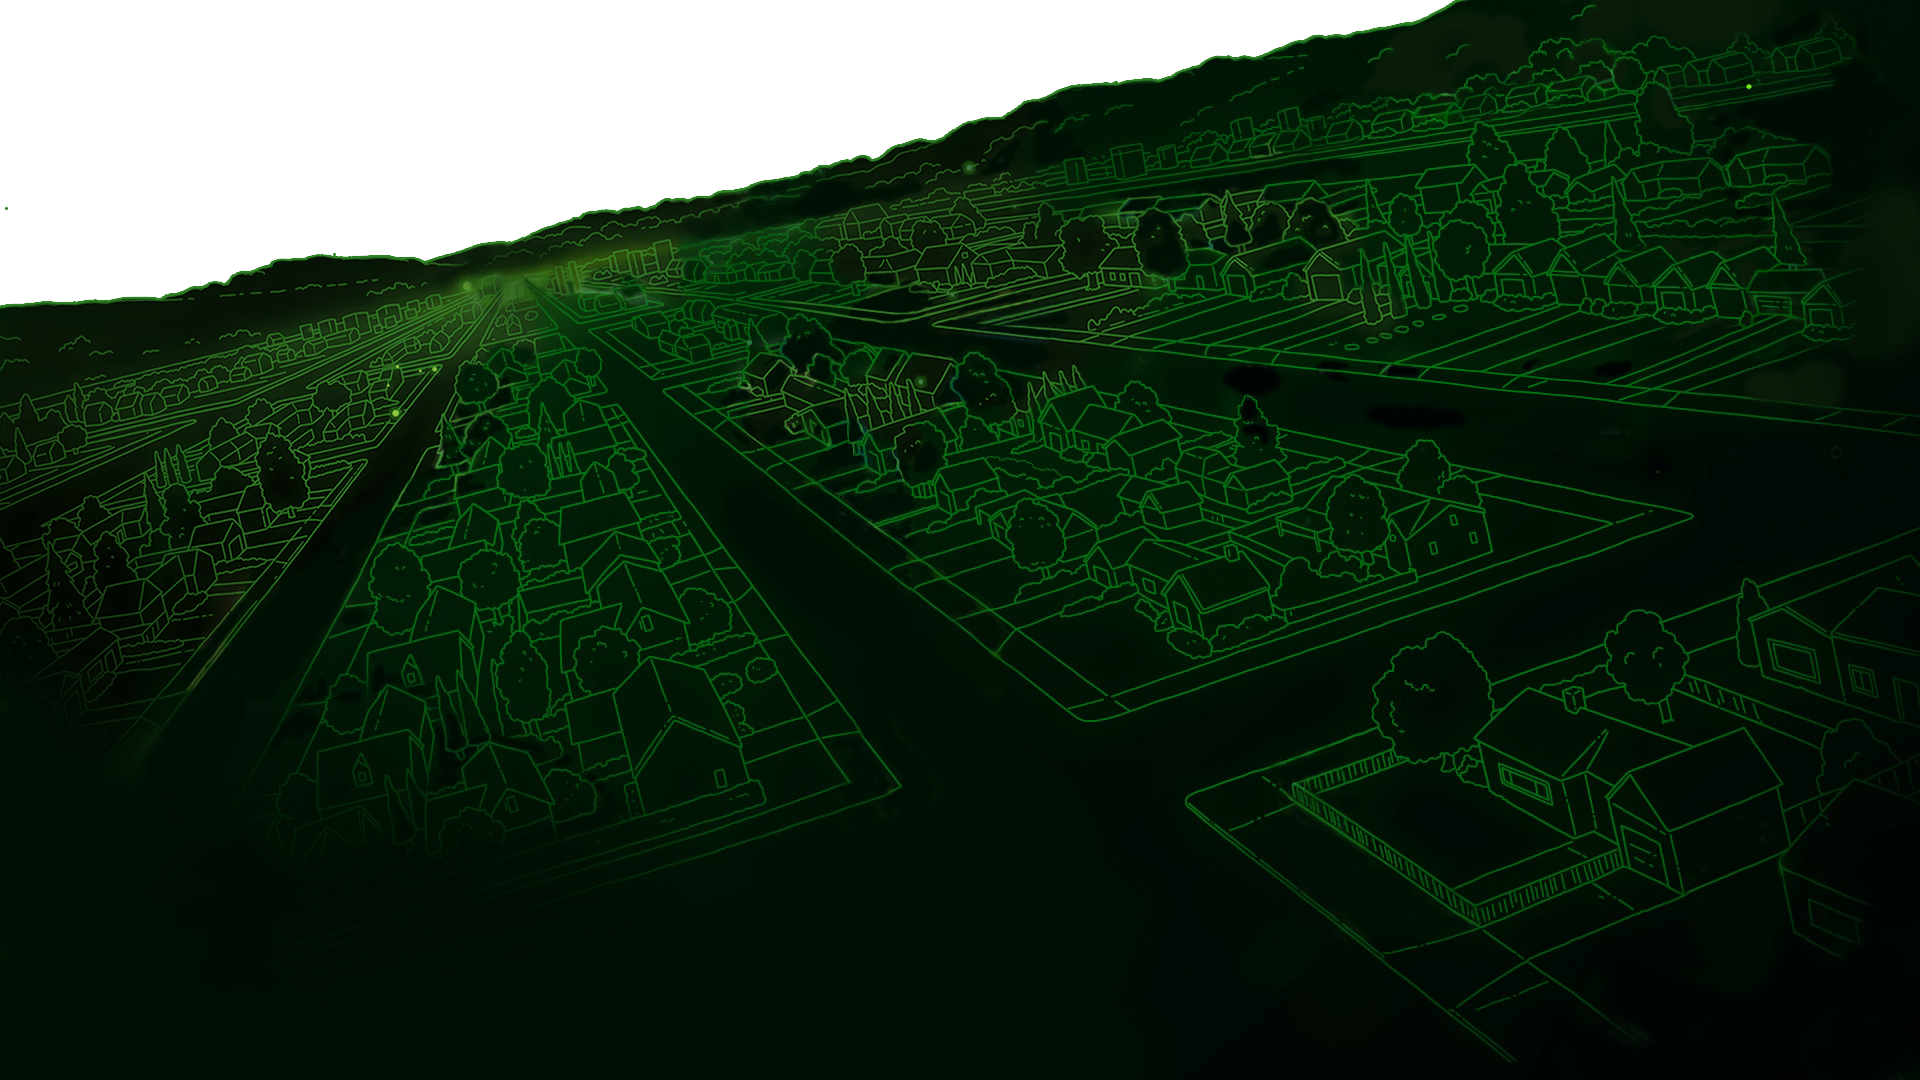
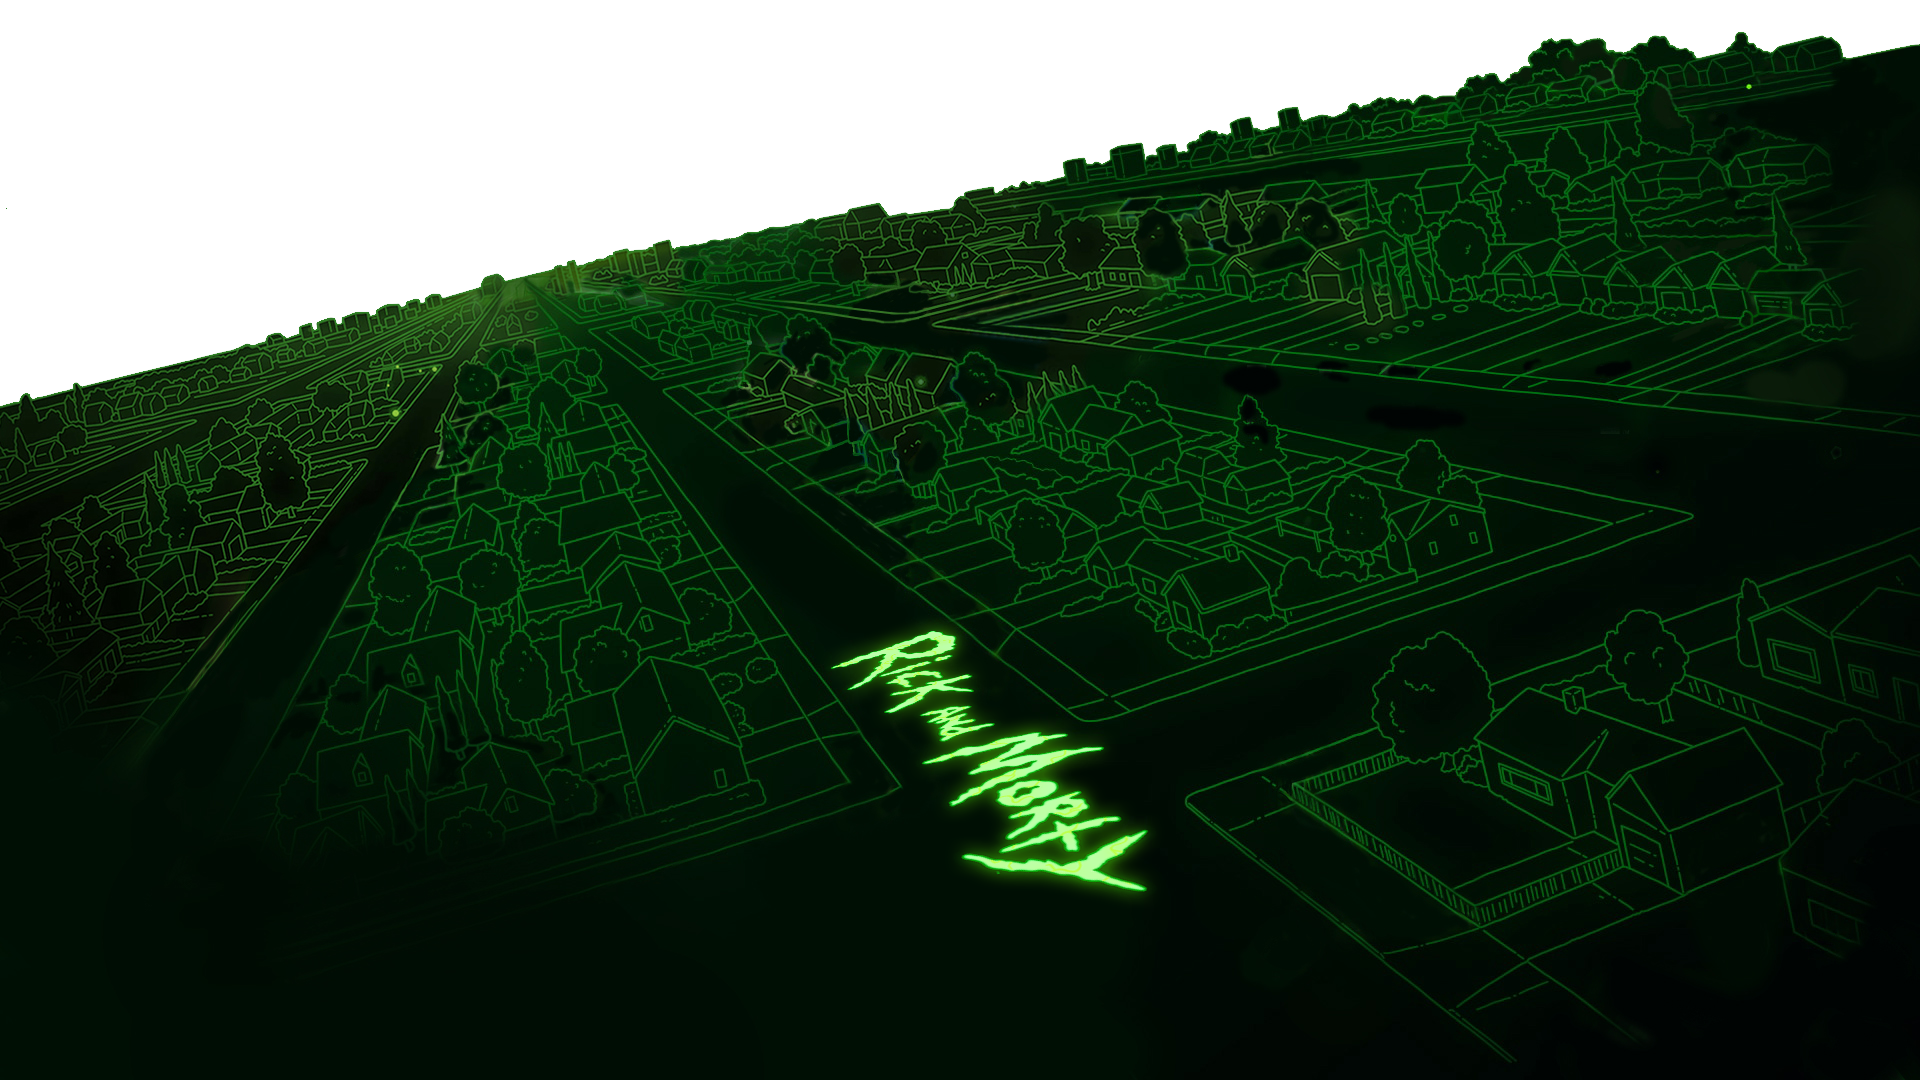
Background Desktop
Efecto parallax desktop terminado.

Changed region(s): [[0.0, 0.0, 1.0, 0.3972], [0.4375, 0.5806, 0.5938, 0.825]]

diff --git a/src/components/Background/Background.jsx b/src/components/Background/Background.jsx
@@ -17,13 +17,18 @@ function Background() {
   return (
     <div className="background">
       <img style={{transform: `translate(${cords.x / 100}px, ${cords.y / 100}px)`}} className="nubes" src="/images/Nubes.jpg" alt="Nubes" />
-      <img style={{transform: `translate(${cords.x / 160}px, ${cords.y / 160}px)`}} className="city" src="/images/City.png" alt="City" />
-      <img style={{transform: `translate(${cords.x / 150}px, ${cords.y / 150}px)`}} className="asteroids shadow" src="/images/Asteroids.png" alt="Asteroids" />
-      <img style={{transform: `translate(${cords.x / 60}px, ${cords.y / 60}px)`}} className="jerry space-shadow" src="/images/Jerry.png" alt="Jerry Flotando" />
-      <img style={{transform: `translate(${cords.x / 60}px, ${cords.y / 60}px)`}} className="rick shadow" src="/images/Rick.png" alt="Rick Flotando" />
-      <img style={{transform: `translate(${cords.x / 35}px, ${cords.y / 35}px)`}} className="morty shadow" src="/images/Morty.png" alt="Morty Flotando" />
-      <img style={{transform: `translate(${cords.x / 50}px, ${cords.y / 50}px)`}} className="beth space-shadow" src="/images/Beth.png" alt="Beth Flotando" />
-      <img style={{transform: `translate(${cords.x / -50}px, ${cords.y / -50}px)`}} className="summer space-shadow" src="/images/Summer.png" alt="Summer Flotando" />
+      <img style={{transform: `translate(${cords.x / 80}px, ${cords.y / 80}px)`}} className="city" src="/images/City.png" alt="Ciudad" />
+      <div className="asteroids">
+        <img style={{transform: `translate(${cords.x / 150}px, ${cords.y / 150}px)`}} className="left shadow" src="/images/Asteroids-left.png" alt="Asteroides de fondo" />
+        <img style={{transform: `translate(${cords.x / 60}px, ${cords.y / 60}px)`}} className="center shadow" src="/images/Asteroids-center.png" alt="Asteroides de fondo" />
+        <img style={{transform: `translate(${cords.x / 100}px, ${cords.y / 100}px)`}} className="right shadow" src="/images/Asteroids-right.png" alt="Asteroides de fondo" />
+      </div>
+      <img style={{transform: `translate(${cords.x / 35}px, ${cords.y / 35}px)`}} className="jerry space-shadow" src="/images/Jerry.png" alt="Jerry Flotando" />
+      <img style={{transform: `translate(${cords.x / 50}px, ${cords.y / 50}px)`}} className="rick shadow" src="/images/Rick.png" alt="Rick Flotando" />
+      <img style={{transform: `translate(${cords.x / 100}px, ${cords.y / 100}px)`}} className="asteroid-on shadow" src="/images/Asteroids-on.png" alt="Asteroides de fondo" />
+      <img style={{transform: `translate(${cords.x / 45}px, ${cords.y / 45}px)`}} className="beth space-shadow" src="/images/Beth.png" alt="Beth Flotando" />
+      <img style={{transform: `translate(${cords.x / 30}px, ${cords.y / 30}px)`}} className="morty shadow" src="/images/Morty.png" alt="Morty Flotando" />
+      <img style={{transform: `translate(${cords.x / -140}px, ${cords.y / -140}px)`}} className="summer space-shadow" src="/images/Summer.png" alt="Summer Flotando" />
     </div>
   )
 }

diff --git a/src/components/Background/_Background.scss b/src/components/Background/_Background.scss
@@ -12,11 +12,11 @@
     filter: drop-shadow(0px 0px 8px rgb(100, 255, 0)) drop-shadow(0px 0px 45px rgb(0, 200, 0));
   }
 
-  .rick, .morty,.jerry, .beth, .summer{
+  .rick, .morty, .jerry, .beth, .summer, .rick-and-morty, .asteroid-on, .asteroids, .city{
     position: absolute;
   }
   .rick{
-    top: 18%;
+    top: 16%;
     left: 8%;
     width: 24%;
     min-width: 250px;
@@ -25,17 +25,17 @@
     top: 100px;
     left: 30%;
     width: 36%;
-    min-width: 400px;
+    min-width: 420px;
   }
   .jerry{
-    top: 56%;
-    left: 58%;
+    top: 54%;
+    left: 56%;
     width: 12%;
-    min-width: 150px;
+    min-width: 140px;
   }
   .beth{
-    left: -4%;
-    bottom: -4%;
+    left: -7%;
+    bottom: -5%;
     width: 30%;
     min-width: 400px;
   }
@@ -43,23 +43,59 @@
     right: -2%;
     bottom: -4%;
     width: 40%;
+    min-width: 410px;
+  }
+  .rick-and-morty{
+    top: 40%;
+    left: 50%;
+    width: 28%;
     min-width: 400px;
   }
+  .asteroid-on{
+    top: 40%;
+    left: 20%;
+    width: 10%;
+    min-width: 120px;
+    opacity: 0.85;
+  }
   .asteroids{
-    position: absolute;
     width: 103%;
     height: 103%;
     opacity: 0.85;
+    .left, .center, .right{
+      position: absolute;
+    }
+    .left{
+      left: 0;
+      width: 16%;
+      min-width: 200px;
+      height: 100%;
+    }
+    .center{
+      left: 30%;
+      height: 100%;
+    }
+    .right{
+      top: 0;
+      right: -5%;
+      width: 30%;
+      min-width: 340px;
+      height: auto;
+    }
   }
   .nubes{
-    position: absolute;
-    top: -20px;
-    left: -20px;
-    width: 100%;
+    position: relative;
+    top: -2.5%;
+    left: -2.5%;
+    width: auto;
+    min-width: 105%;
+    min-height: 45%;
+    object-fit: cover;
+    margin-bottom: auto;
   }
   .city{
-    position: absolute;
-    width: 103%;
+    min-width: 103%;
     height: 103%;
+    filter: drop-shadow(0px 0px 3px rgb(0, 130, 0)) drop-shadow(0px 0px 25px rgba(73 214 114 / 60%));
   }
 }
